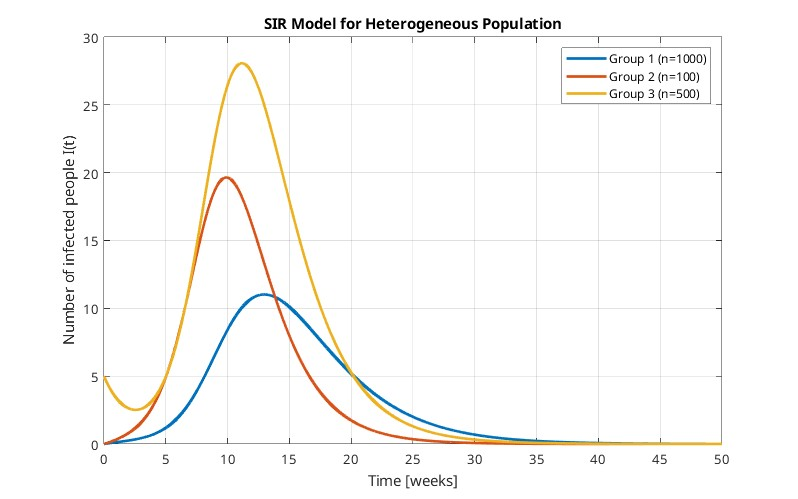
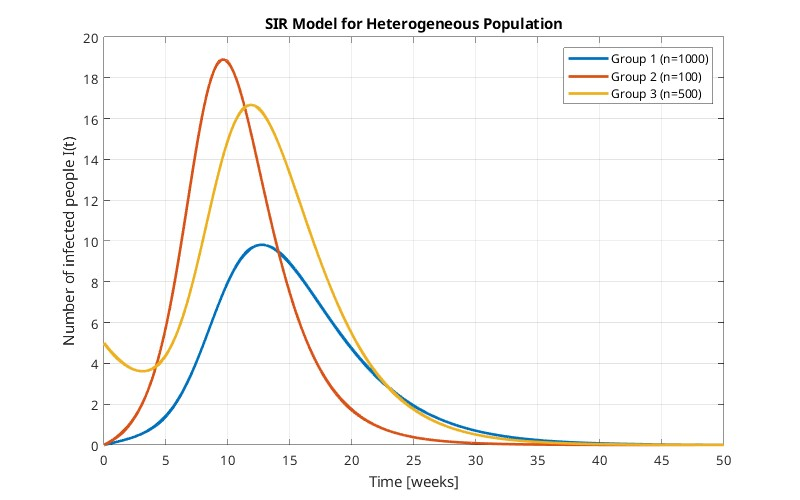
task4 - matrix fix

diff --git a/Exercise06/task_4.m b/Exercise06/task_4.m
@@ -13,7 +13,7 @@ function task_4()
     % Contact matrix
     M = [0.9, 0.05, 0.05;
          0.1, 0.7,  0.2;
-         0.3, 0.3,  0.4];
+         0.05, 0.1,  0.85];
     
     % Calculate alpha and beta for each group
     alpha = contacts * infectionProb;

diff --git a/Exercise06/solution.md b/Exercise06/solution.md
@@ -371,7 +371,7 @@ function task_4()
     % Contact matrix
     M = [0.9, 0.05, 0.05;
          0.1, 0.7,  0.2;
-         0.3, 0.3,  0.4];
+         0.05, 0.1,  0.85];
     
     % Calculate alpha and beta for each group
     alpha = contacts * infectionProb;
